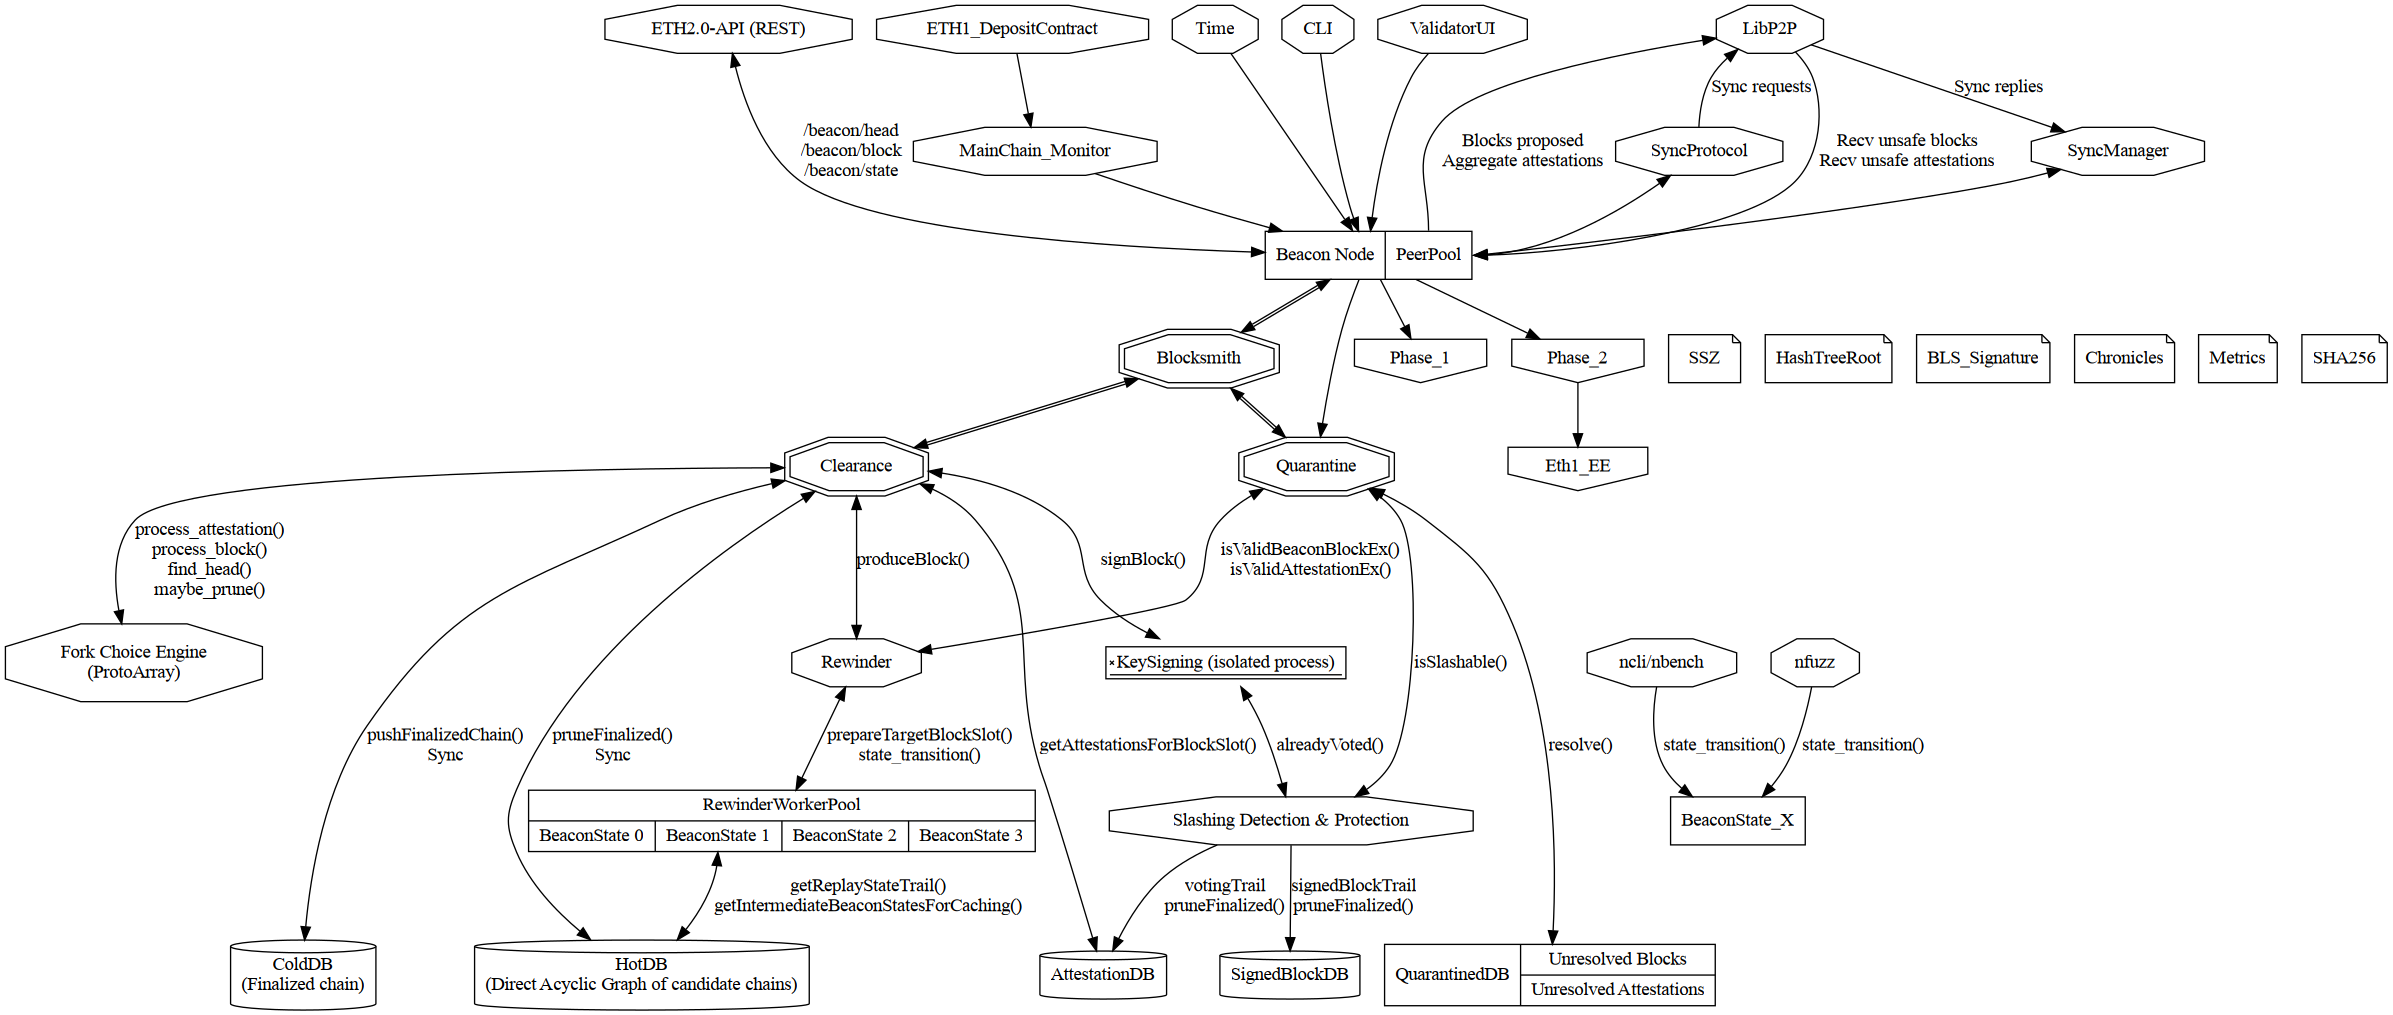
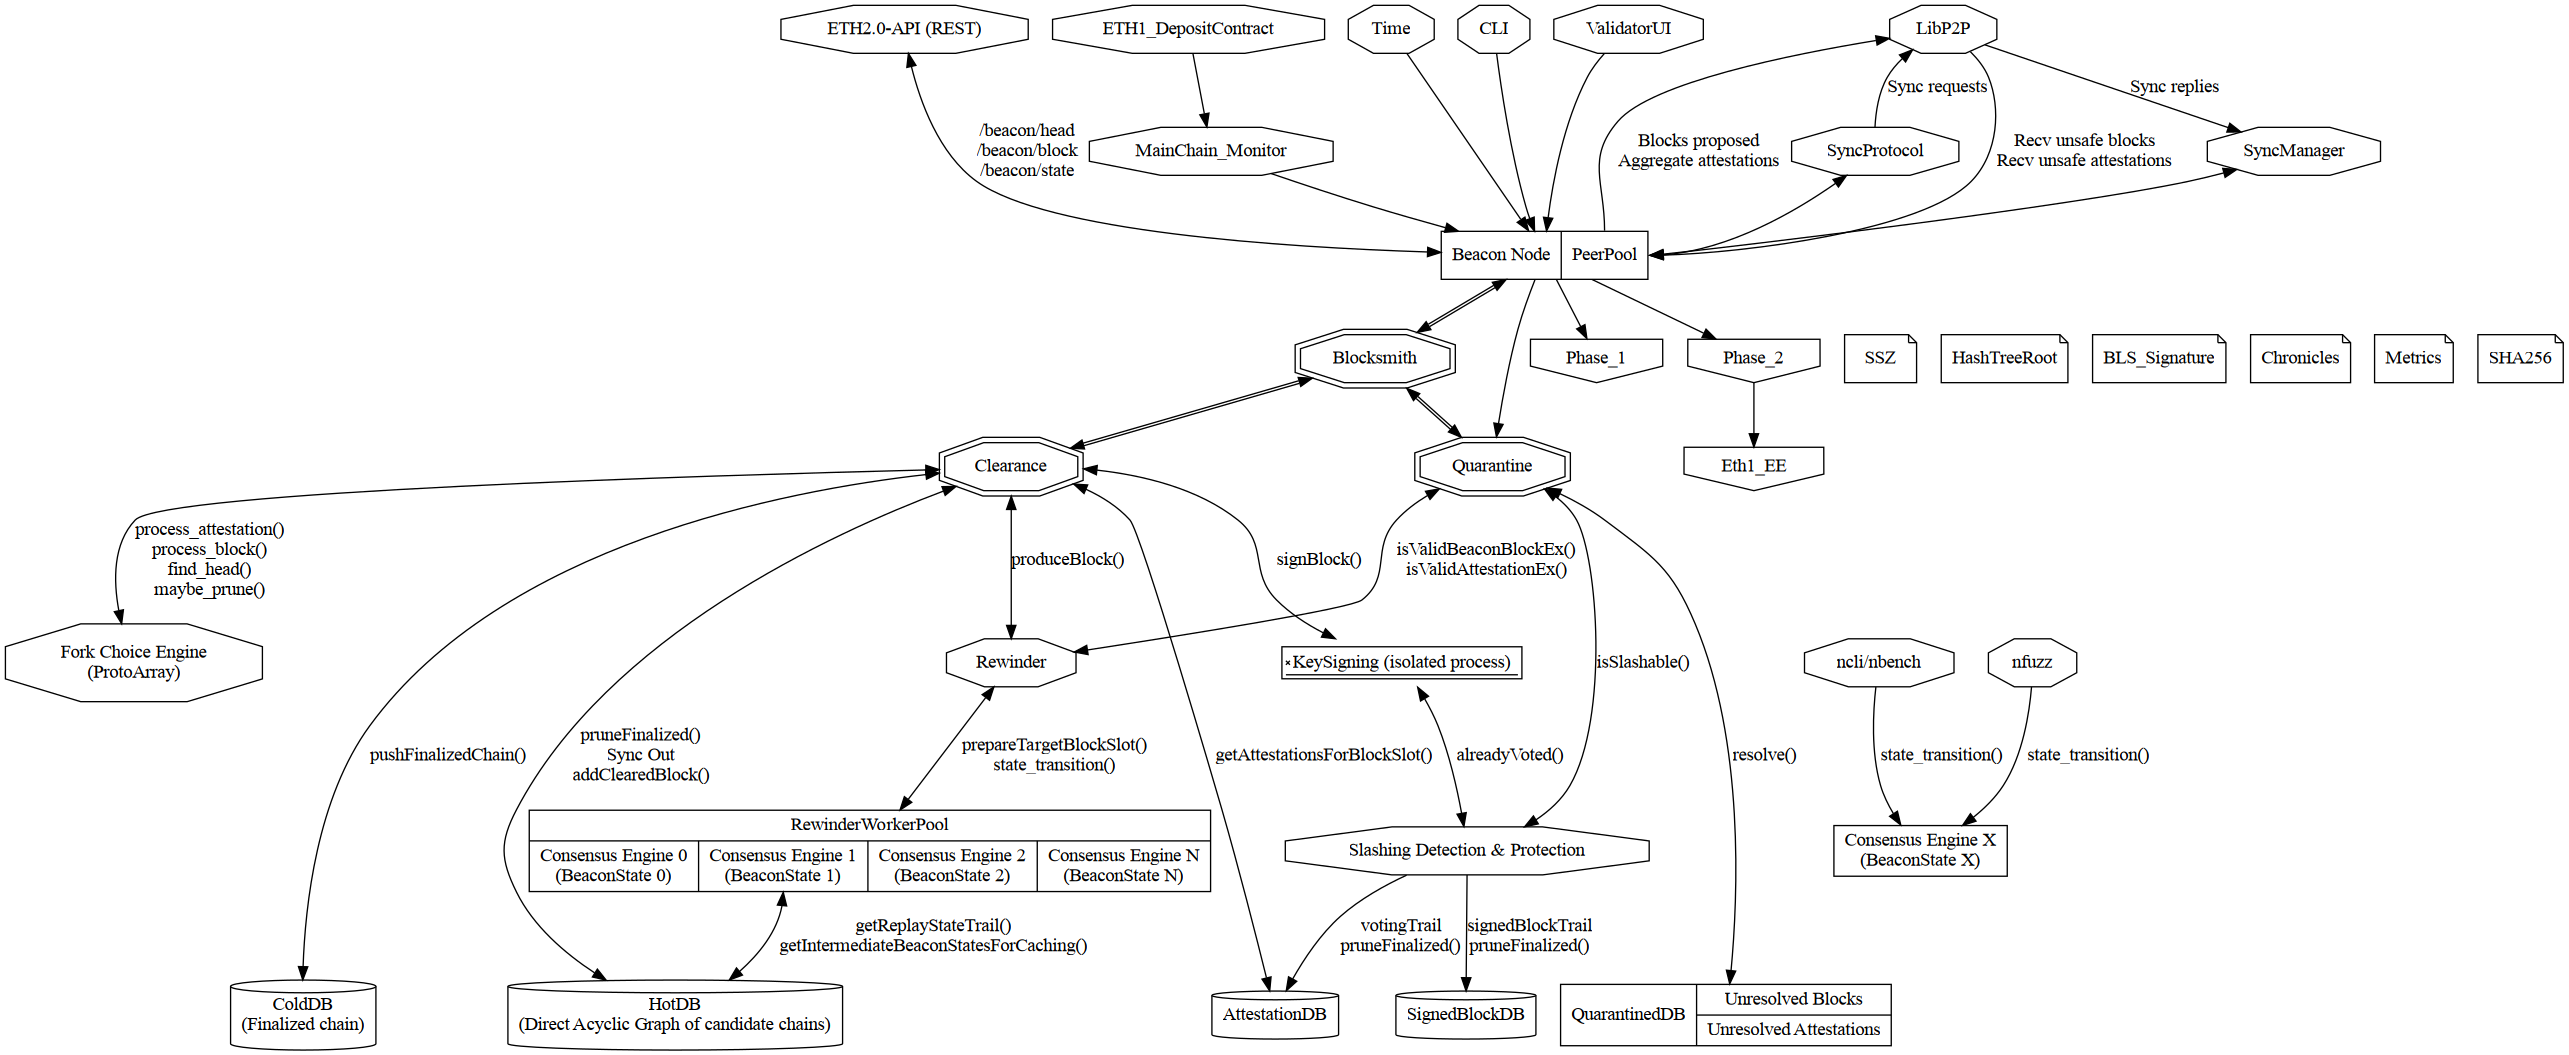
Update with replacement for Blockpool: missing blocks, getBlockRange (Sync), updateHead (ForkChoice)

diff --git a/public_routines.md b/public_routines.md
@@ -2,6 +2,28 @@
 
 Listing of public routines and replacement
 
+## Table of Contents
+
+- [Public routines](#public-routines)
+  - [Table of Contents](#table-of-contents)
+  - [Prerequisites](#prerequisites)
+  - [Block_pool](#block_pool)
+    - [updateStateData](#updatestatedata)
+      - [Role:](#role)
+      - [Used for:](#used-for)
+      - [Replaced by:](#replaced-by)
+      - [Constraints:](#constraints)
+    - [withState](#withstate)
+      - [Used publicly for:](#used-publicly-for)
+      - [Used privately for:](#used-privately-for)
+      - [Replaced by:](#replaced-by-1)
+    - [Direct Acyclic Graph routines](#direct-acyclic-graph-routines)
+      - [Queries](#queries)
+      - [Missing blocks](#missing-blocks)
+      - [Adding a QuarantinedBlock to the DAG (`add` and `addResolved`)](#adding-a-quarantinedblock-to-the-dag-add-and-addresolved)
+      - [Outgoing Sync (getBlockRange)](#outgoing-sync-getblockrange)
+      - [Fork Choice (updateHead)](#fork-choice-updatehead)
+
 ## Prerequisites
 
 We define some the following prerequisites types
@@ -119,9 +141,9 @@ This means that
   That part can be delegated to a
   - `warnIfValidatorsDepositsMissing()` in the Rewinder service
 
-## Direct Acyclic Graph routines
+### Direct Acyclic Graph routines
 
-### Queries
+#### Queries
 
 - `func parent*(bs: BlockSlot): BlockSlot`
 - `func isAncestorOf*(a, b: BlockRef): bool`
@@ -129,6 +151,12 @@ This means that
 - `func getAncestorAt*(blck: BlockRef, slot: Slot): BlockRef`
 - `func atSlot*(blck: BlockRef, slot: Slot): BlockSlot`
 - `func findAncestorBySlot*(blck: BlockRef, slot: Slot): BlockSlot`
+- `func getRef*(pool: BlockPool, root: Eth2Digest): BlockRef`
+- `func getBlockBySlot*(pool: BlockPool, slot: Slot): BlockRef`
+- `func getBlockByPreciseSlot*(pool: BlockPool, slot: Slot): BlockRef`
+- `proc get*(pool: BlockPool, blck: BlockRef): BlockData`
+- `func getOrResolve*(pool: var BlockPool, root: Eth2Digest): BlockRef`
+- `proc loadTailState*(pool: BlockPool): StateData`
 
 Those routines should be made private in the HotDB.
 They are exported just for testing except for:
@@ -136,7 +164,16 @@ They are exported just for testing except for:
 - `getAncestorAt` in `handleValidatorDuties`
 - `findAncestorBySlot` in `handleAttestations`
 
-### Adding a QuarantinedBlock to the DAG
+A minimal public API should replace
+- `proc get*(pool: BlockPool, root: Eth2Digest): Option[BlockData]`
+
+#### Missing blocks
+
+- `func checkMissing*(pool: var BlockPool): seq[FetchRecord]`
+
+The functionality is moved to the `Quarantine` service
+
+#### Adding a QuarantinedBlock to the DAG (`add` and `addResolved`)
 
 ```Nim
 proc add*(pool: var BlockPool, blockRoot: Eth2Digest, signedBlock: SignedBeaconBlock)
@@ -145,7 +182,20 @@ proc addResolvedBlock(
     signedBlock: SignedBeaconBlock, parent: BlockRef): BlockRef
 ```
 
-Is one of the proc that allows a block to traverse the firewall
+It is one of the proc that allows a block to traverse the firewall
+
+> Reminders:
+> - the current implementation has a bit of confusion\
+>   There is an explicit isValidBeaconBLock from the P2P interface
+>   - https://github.com/ethereum/eth2.0-specs/blob/v0.11.1/specs/phase0/p2p-interface.md#global-topics\
+>   - https://github.com/status-im/nim-beacon-chain/blob/c3cdb399/beacon_chain/block_pool.nim#L1052-L1159\
+>
+>   and an implicit one in "proc add*(pool: var BlockPool, ...)"
+>   - https://github.com/status-im/nim-beacon-chain/blob/c3cdb399/beacon_chain/block_pool.nim#L447-L483
+>
+>   that in particular extracts the justifiedSlot
+>   - ideally to ease fork choice we want
+> - the justified and finalized checkpoints of each block is necessary for fork choice. They should be stored as DAG Metadata to avoid recomputing them via `state_transition`
 
 It should be handled at `Blocksmith` level with
 
@@ -187,8 +237,8 @@ proc incomingBlock*(service: Blocksmith, resultChan: Channel[Result[BlockDAGNode
       service.rewinder,
       stagingBlock
     )
-    let optJustifiedSlot = service.isValidBeaconBlockExChan.recv()
-    if not optJustifiedSlot.isSome:
+    let optCheckpoints = service.isValidBeaconBlockExChan.recv()
+    if not optCheckpoints.isSome:
       notice "Invalid block",
         blck = shortLog(blck),
         blockRoot = shortLog(blockRoot),
@@ -205,3 +255,23 @@ Blocks with unknown parents are sent to the QuarantinedDB.
 After a new block becomes `validated`.
 The `Quarantine` service can schedule a (possibly non-blocking) `resolve()`
 operation to collect new blocks to validate.
+
+#### Outgoing Sync (getBlockRange)
+
+```Nim
+proc getBlockRange*(
+    pool: BlockPool, startSlot: Slot, skipStep: Natural,
+    output: var openArray[BlockRef]): Natural
+```
+
+should be moved to the HotDB and the ColdDB
+
+#### Fork Choice (updateHead)
+
+- `proc updateHead*(pool: BlockPool, newHead: BlockRef)`
+
+can be moved to the HotDB.
+
+The new head block is the result of either clearing a block from Quarantine or producing a new block for signing.
+Assuming we cache the `current_justified_checkpoint` and `finalized_checkpoint` from block clearing and `produceBlock()` we don't need to redo state transition like in the current codebase.
+  - https://github.com/status-im/nim-beacon-chain/blob/c3cdb399/beacon_chain/block_pool.nim#L865-L895

diff --git a/quarantine.md b/quarantine.md
@@ -24,7 +24,6 @@ The `Quarantine` module is "filter" implemented as a state machine that:
 type
   ValidBlock = distinct SignedBeaconBlock
   QuarantinedBlock = distinct SignedBeaconBlock
-  JustifiedSlot = Slot
 
   UpdateFlag* = enum
     skipMerkleValidation ##\
@@ -63,18 +62,22 @@ type
 
 proc init(quarantine: Quarantine, rewinder: Rewinder, slashingDetector: SlashingDetectionAndProtection) =
   doAssert not quarantine.isNil, "Memory should be allocated before calling init"
-  doAssert shutdown, "Quarantine should be initialized from the shutdown state"
+  doAssert shutdown.load(moRelaxed), "Quarantine should be initialized from the shutdown state"
+  quarantine.inNetworkBlocks = createShared(Channel[QuarantinedBlock])
   quarantine.inNetworkBlocks.open(maxitems = 0)
+  quarantine.inNetworkAttestations = createShared(Channel[QuarantinedAttestation])
   quarantine.inNetworkAttestations.open(maxitems = 0)
   quarantine.outSlashableBlocks.open(maxitems = 0)
   quarantine.outClearedAttestations.open(maxitems = 0)
 
   quarantineDB.init(quarantine.inNetworkBlocks, quarantine.inNetworkAttestations)
 
-  # Signal ready
-  quarantine.shutdown.store(moRelease, false)
+  # Internal result channels are initialized on an as-needed basis.
 
-  # Internal result channels
+  # Signal ready
+  quarantine.shutdown.store(false, moRelease)
+
+
 
 proc teardown(quarantine: Quarantine) =
   doAssert quarantine.shutdown
@@ -109,20 +112,15 @@ proc sendForValidation(
   rewinder.isValidAttestationP2PEx(isAttCleared.chan, rewinder, qAtt)
 
 # TODO: state machine
-type ProcessedEvent = enum
-  DrainedNetworkBlocks
-  DrainedNetworkAttestations
-  CollectedClearedBlocks
-  CollectedClearedAttestations
 
-proc eventLoop(service: Quarantine, slashingDetector: SlashingDetectionAndProtection) {.gcsafe.} =
-  service.quarantineDB.init()
+proc eventLoop(service: Quarantine, rewinder: Rewinder, slashingDetector: SlashingDetectionAndProtection) {.gcsafe.} =
+  service.init(rewinder, slashingDetector)
 
   var backoff = 1 # Simple exponential backoff
-  var processedEvents: set[ProcessedEvent]
   while not service.shutdown:
     var dataAvailable = true
     var rIndex = 0
+    var processedAtLeastAnEvent = false
 
     block: # 1. Drain the network blocks
       var qBlock: QuarantinedBlock
@@ -133,13 +131,13 @@ proc eventLoop(service: Quarantine, slashingDetector: SlashingDetectionAndProtec
         while true:
           if service.areBlocksCleared[rIndex].free:
             sendForValidation(service.areBlocksCleared[rIndex], service.rewinder, qBlock)
-            processedEvents.incl(DrainedNetworkBlocks)
+            processedAtLeastAnEvent = true
             break
           if rIndex == service.areBlocksCleared.len:
             service.areBlocksCleared.setLen(service.areBlocksCleared + 1)
             service.areBlocksCleared[rIndex].init()
             sendForValidation(service.areBlocksCleared[rIndex], service.rewinder, qBlock)
-            processedEvents.incl(DrainedNetworkBlocks)
+            processedAtLeastAnEvent = true
             break
           inc rIndex
 
@@ -153,13 +151,13 @@ proc eventLoop(service: Quarantine, slashingDetector: SlashingDetectionAndProtec
         while true:
           if service.areAttestationsCleared[rIndex].free:
             sendForValidation(service.areAttestationsCleared[rIndex], service.rewinder, qAtt)
-            processedEvents.incl(DrainedNetworkAttestations)
+            processedAtLeastAnEvent = true
             break
           if rIndex == service.areAttestationsCleared.len:
             service.areAttestationsCleared.setLen(service.areAttestationsCleared + 1)
             service.areAttestationsCleared[rIndex].init()
             sendForValidation(service.areAttestationsCleared[rIndex], service.rewinder, qAtt)
-            processedEvents.incl(DrainedNetworkAttestations)
+            processedAtLeastAnEvent = true
             break
           inc rIndex
 
@@ -182,7 +180,7 @@ proc eventLoop(service: Quarantine, slashingDetector: SlashingDetectionAndProtec
             debug "Invalid Block",
               blck = $shortLog(service.areBlocksCleared[i].blck)
             # TODO: message to PeerPool
-          processedEvents.incl(CollectedClearedBlocks)
+          processedAtLeastAnEvent = true
           service.areBlocksCleared[i].free = true
 
     block: # 5. Collect cleared attestations
@@ -201,10 +199,10 @@ proc eventLoop(service: Quarantine, slashingDetector: SlashingDetectionAndProtec
             debug "Invalid Attestation",
               blck = $shortLog(service.areAttestationsCleared[i].att)
             # TODO: message to PeerPool
-          processedEvents.incl(CollectedClearedAttestations)
+          processedAtLeastAnEvent = true
           service.areAttestationsCleared[i].free = true
 
-    if processedEvents.card() == 0:
+    if not processedAtLeastAnEvent:
       # No event processed, backoff
       sleep(backoff)
       backoff *= 2

diff --git a/rewinder.md b/rewinder.md
@@ -52,7 +52,6 @@ The number of worker threads will depend on the available cores and memory const
 type
   ClearedBlock = distinct SignedBeaconBlock
   QuarantinedBlock = distinct SignedBeaconBlock
-  JustifiedSlot = Slot
 
   UpdateFlag* = enum
     skipMerkleValidation ##\
@@ -81,6 +80,8 @@ type
   WorkerID = int
 
   StateTrail = tuple[startState: BeaconState, blocks: seq[SignedBeaconBlock]]
+
+  RewinderTask = Task[RewinderEnvSize]
 
   Rewinder* = ptr object
     ## Rewinder supervisor
@@ -119,8 +120,10 @@ proc init(worker: RewinderWorker, supervisor: Rewinder, workerID: WorkerID) =
   worker.hotDB = supervisor.hotDB
   worker.stateTrailChan = createShared(Channel[tuple[startState: BeaconState, blocks: seq[SignedBeaconBlock]]])
   worker.stateTrailChan.open(maxItems = 1) # We never request more than 1 stateTrail
-  worker.ready.store(true, moRelaxed)
-  worker.shutdown.store(true, moRelaxed)
+
+  # Signal ready
+  worker.ready.store(true, moRelease)
+  worker.shutdown.store(false, moRelease)
 
 template deref*(T: typedesc): typedesc =
   ## Return the base object type behind a ptr type
@@ -292,17 +295,18 @@ template isValidBeaconBlockP2PEx(
 `isValidBeaconBlockEx()` is the expensive block validation. Expensive as it involves loading the beacon state prior to apply the block and check if the block is conistent with the state.
 
 It updates the result channel with a None option if the block is invalid
-or the current justified slot after the block application.
+or a tuple of (current_justified_checkpoint, finalized_checkpoint) after the block application.
 
 This replaces part of the functionality of `add` and `addResolved` in blockpool.nim.
 
-As an optimization, an `Option[JustifiedSlot]` is returned
+The option `Option[tuple[justified, finalized: Checkpoint]]` is returned
+to be cached as DAG Metadata and avoid having to redo `state_transition` for fork_choice
 
 TODO
 
 ```Nim
 proc isValidBeaconBlockEx(
-       resultChan: ptr Channel[Option[JustifiedSlot]],
+       resultChan: ptr Channel[Option[tuple[justified, finalized: Checkpoint]]],
        wrk: RewinderWorker,
        unsafeBlock: QuarantinedBlock
      )

diff --git a/architecture_phase0.md b/architecture_phase0.md
@@ -64,3 +64,15 @@ The architecture has the following disadvantages:
 ### Implementation notes
 
 The implementation support document on each service assumes almost no available abstraction to handle cross-thread communications and function calls. A CSP, actor, micro-service abstraction or alternatively built-in support of thread-safe closures in Nim would significantly improve the ergonomy of the implementation.
+
+### Utilities
+
+The following types and routines:
+- `Task`
+- `servicify`
+- `crossServiceCall`
+are implemented in [cross_service_calls.nim](cross_service_calls.nim).
+They respectively:
+- define a Task i.e. a function call + context (environement/closure)
+- create a wrapper function that can receive an properly unpack such Tasks
+- pack a function call + arguments so that it can be send through a channel.
